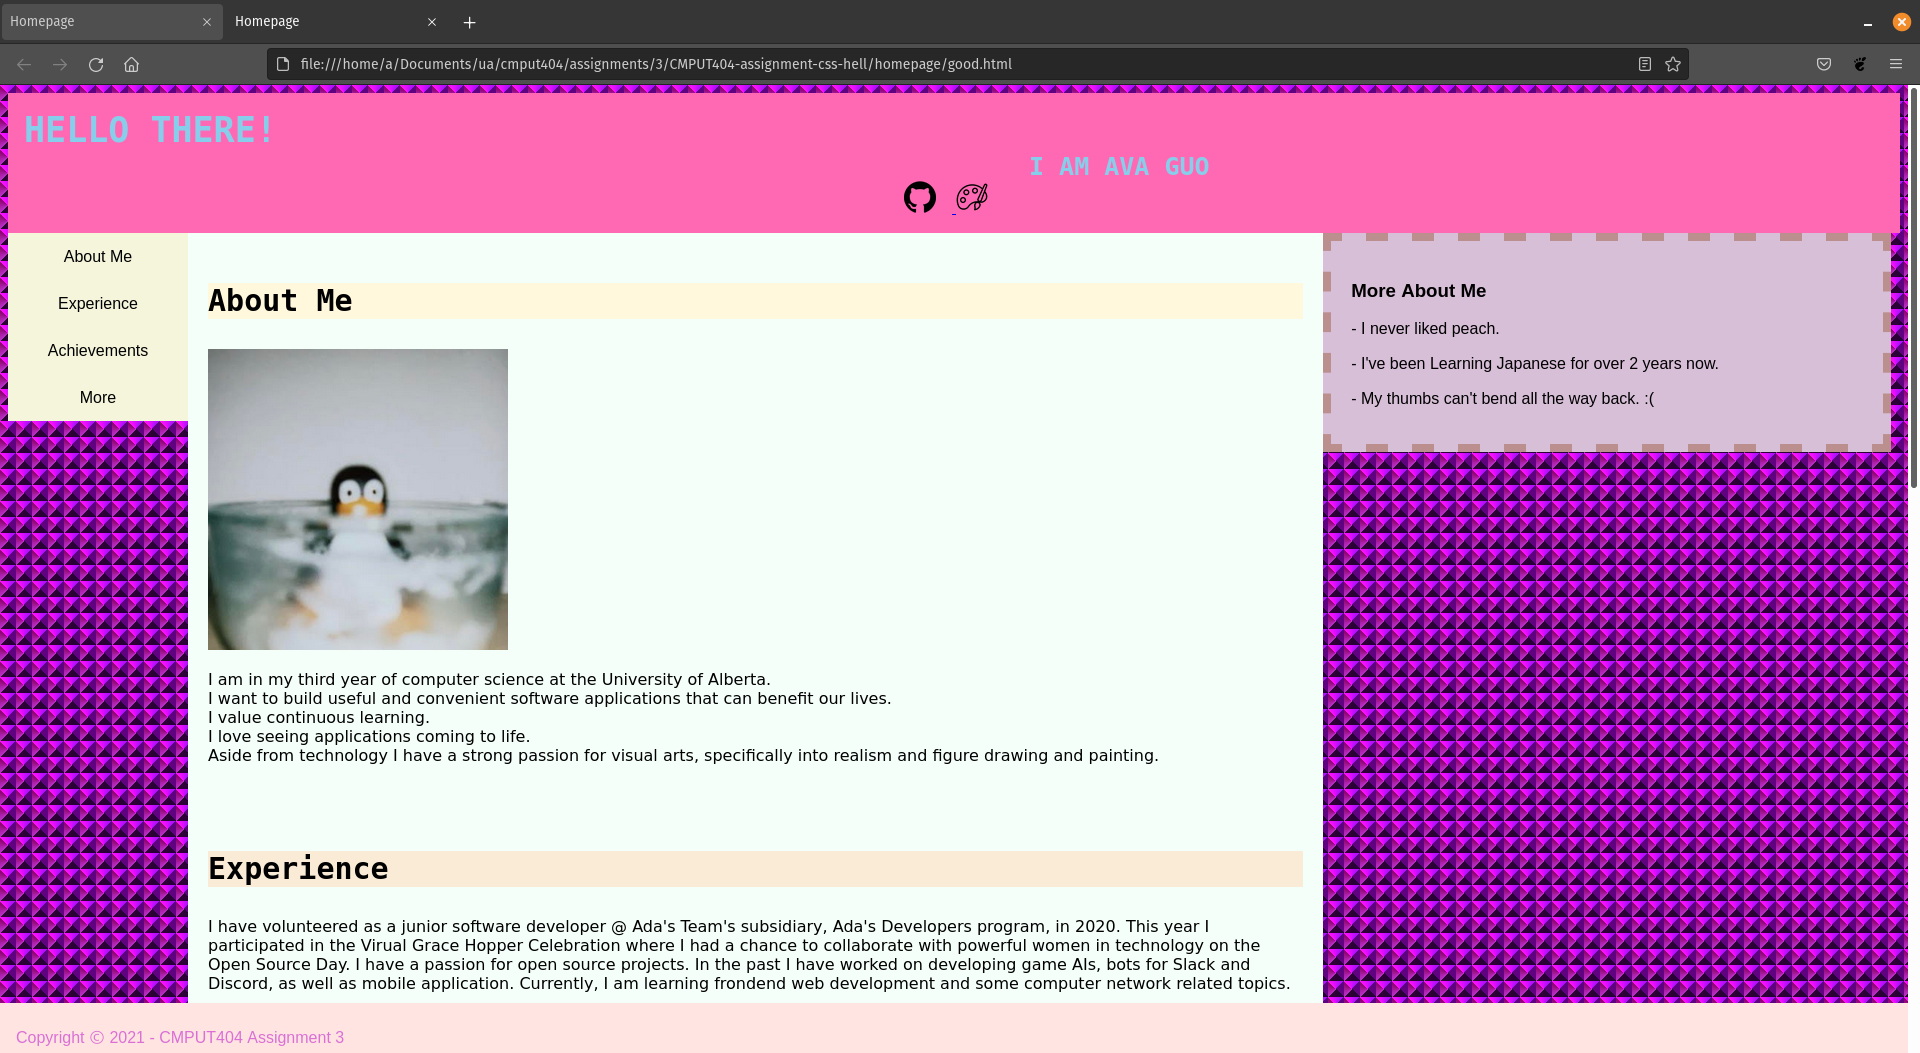
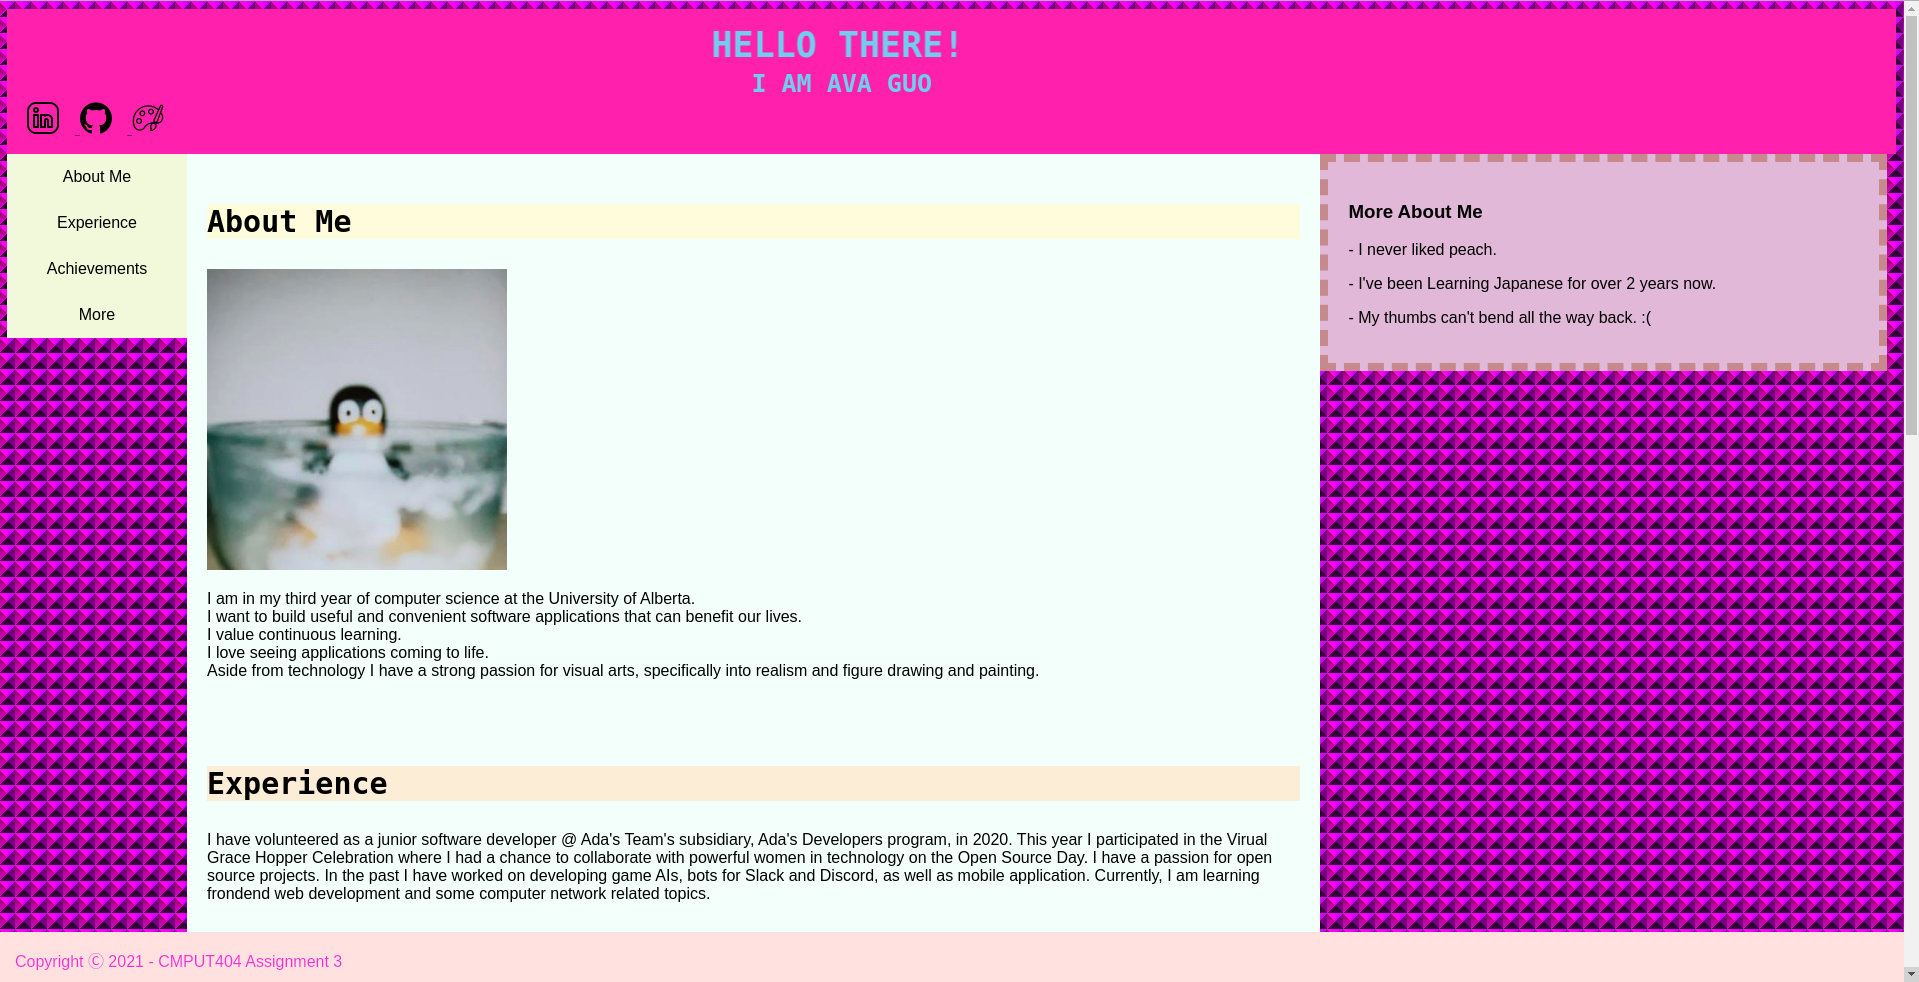
minor changes to ugly.css

diff --git a/homepage/ugly.css b/homepage/ugly.css
@@ -1,7 +1,8 @@
 body {
     height: 200px;
     background-color: rgb(255, 209, 243); /* For browsers that do not support gradients */
-    background-image: linear-gradient(to bottom right, rgb(248, 212, 212), #c5edff);
+    background-image: url(img/cherry_background.png);
+    text-align: center;
 }
 
 header {
